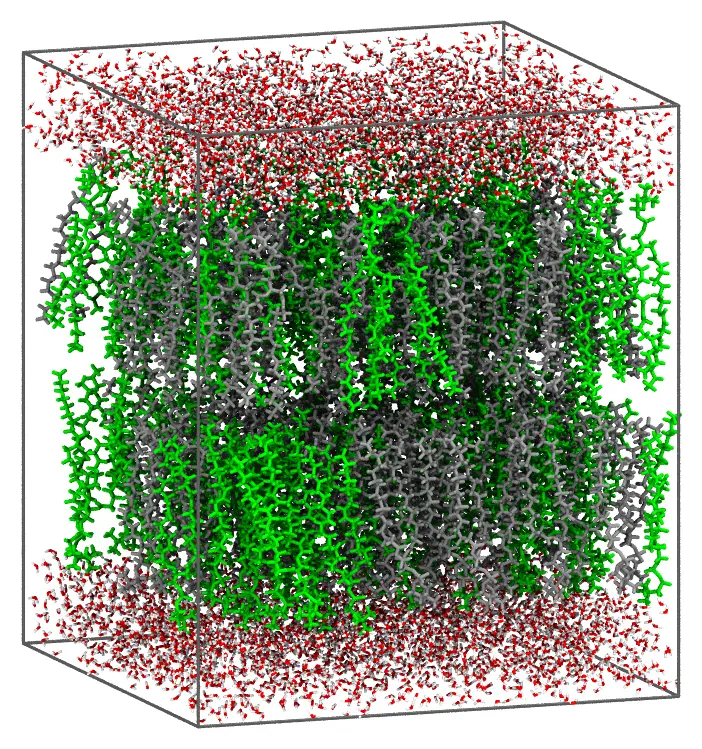
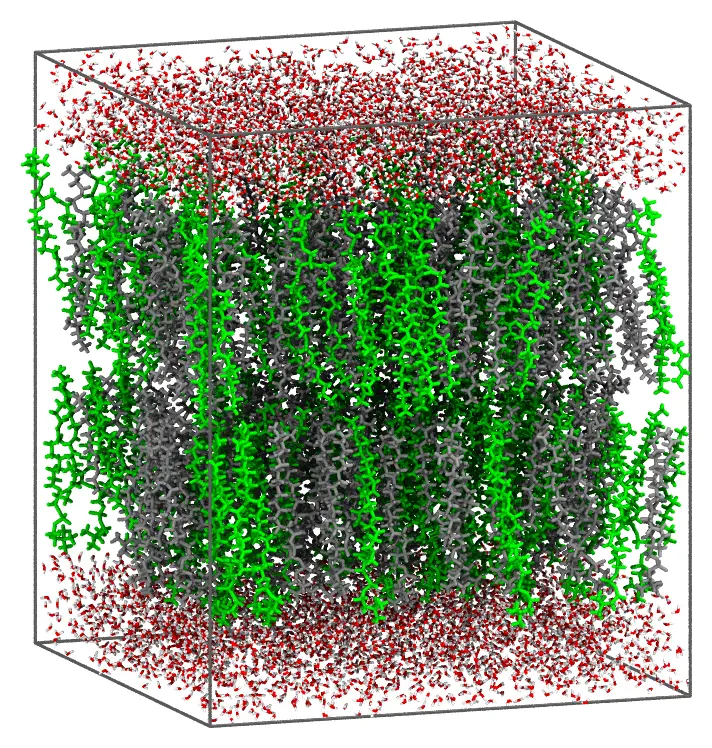
MembraneProtein recipe: a membrane protein in a bilayer, with water and ions
The protein, oriented as in the OPM database (membrane normal along z, middle of the
bilayer at z = 0), is kept fixed; the lipids (those of `Membrane`, by name or file, placed
by the same rule) fill each leaflet, without the cross-section of the protein in it; the
water and the ions fill the slabs beyond the heads, without the volume of the protein
(by Monte Carlo): ions at the ionic concentration, counterions for the charge of the
protein, water to the density of the solution, as in `SolutionBoxUWI`. The cell extends a
lateral margin around the protein, and a solvent margin in z.

Example and tests with the integrin αIIbβ3 transmembrane domains (OPM 2K9J, without the
DUM atoms): in POPC/POPS 4:1 with 0.15 M NaCl, 134 lipids, 5,548 waters, packed in about
10 s. Docs page with the example, an image (dev/recipes/membrane.jl), and advice on the
NPT equilibration with restraints on the protein. The Membrane block writers are shared
(`_write_block`, `_push_structure_types!`). Short summaries in the docstrings of
`shape_descriptors` and `select_conformations`.

Claude-Session: https://claude.ai/code/session_01CXddAw4T6Ean6ekQ8DQaFR

diff --git a/docs/src/recipes/membrane_protein_system.md b/docs/src/recipes/membrane_protein_system.md
@@ -1,0 +1,77 @@
+```@meta
+CollapsedDocStrings = true
+```
+# Membrane protein system
+
+`MembraneProtein` inserts a membrane protein in a lipid bilayer of a given composition, and
+solvates it with water and ions, under orthorhombic periodic boundary conditions.
+
+```@docs
+MembraneProtein
+write_packmol_input(::MembraneProtein)
+packmol(::MembraneProtein)
+```
+
+## The protein
+
+The protein must be oriented for the membrane, as the structures of the
+[OPM database](https://opm.phar.umich.edu) are: the membrane normal along `z`, and the
+middle of the bilayer at `z = 0`. Download the structure from OPM, and remove its `DUM`
+atoms, which mark the boundaries of the membrane (for example, with PDBTools:
+`write_pdb("protein.pdb", read_pdb("1abc.pdb", "not resname DUM"))`). The protein is kept
+fixed at the coordinates of the file. The example below is the transmembrane and
+cytoplasmic domains of the integrin αIIbβ3 (PDB 2K9J, as oriented by OPM), with two
+helices crossing the membrane.
+
+## An example
+
+The integrin in a POPC/POPS 4:1 bilayer, with 0.15 M NaCl:
+
+```@example membrane_protein
+using Packmol
+system = MembraneProtein(
+    protein = joinpath(Packmol.RecipesDirectory, "test", "data", "integrin_tm.pdb"),
+    lipids = ["POPC", "POPS"],
+    lipid_molar_ratio = [4, 1],
+)
+```
+
+```@example membrane_protein
+write_packmol_input(system; input = "membrane_protein.inp", output = "membrane_protein.pdb")
+```
+
+```julia
+packmol(system; output = "membrane_protein.pdb")
+```
+
+It packs in about 10 seconds with 14 threads. A slab through the protein (the protein in
+red):
+
+![The integrin in a POPC/POPS bilayer](images/membrane_protein.webp)
+
+## How the system is built
+
+- The cell extends `margin` (15 Å) beyond the protein in `x` and `y`, and `solvent_margin`
+  (15 Å) beyond the heads of the lipids and beyond the protein in `z`.
+- The lipids are placed as in the [Membrane system](@ref): the ends of their chains within
+  6 Å of the middle of the bilayer, and their heads beyond 6 Å + 0.85 L. The number of
+  lipids of each leaflet fills the area of the cell without the cross-section of the protein
+  in the leaflet, at the area per lipid (that of the actual membrane, for the built-in
+  lipids).
+- The water and the ions fill the slabs beyond the heads. Their volume without the protein
+  is estimated by Monte Carlo (as [`free_volume`](@ref)): the ions at the ionic
+  concentration, with counterions to neutralize the charge of the protein (computed from its
+  residues, or given as `protein_charge`), and the water to the density of the salt
+  solution, as in the [Solute-Water-Ions system](@ref).
+
+## Equilibrating the system
+
+The packed system has no overlaps, but it is not equilibrated. The built-in lipids are
+extended conformations, so the bilayer is thicker than a relaxed one, and than the
+hydrophobic belt of the protein, and the lipids are not yet in contact with the protein as
+in an equilibrated membrane. Minimize the energy of the system, and equilibrate it with
+molecular dynamics at constant pressure (NPT, with semi-isotropic pressure coupling, so
+that the area and the thickness of the membrane relax independently), with position
+restraints on the atoms of the protein (on its heavy atoms, or on its backbone), released
+gradually, until the area per lipid and the thickness of the membrane are stable. Only then
+start the production simulation.

diff --git a/CLAUDE.md b/CLAUDE.md
@@ -74,6 +74,7 @@ src/
     SolutionBoxUSC.jl                 # Solute + Solvent + Cossolvent
     SolutionBoxUWI.jl                 # Solute + Water + Ions
     Membrane.jl                       # Lipid bilayer/monolayer
+    MembraneProtein.jl                # Membrane protein in a bilayer, with water and ions
     DensityTable.jl
     concentration_units.jl
 ext/
@@ -377,6 +378,12 @@ We have full control over the SPGBox.jl package, if some tuning is required. But
       (L: head to midpoint of the chain ends; `flexibility` 0.15), no constraint on the whole molecule
       (it made every lipid tilt), the solvent from 2 Å beyond the heads. Size: `total_lipids` xor
       `total_area`. Examples (images by `dev/recipes/membrane.jl`) in `docs/src/recipes/membrane_system.md`.
+- [x] `MembraneProtein` - a membrane protein (pre-oriented as in OPM: normal along z, bilayer middle at
+      z = 0; kept fixed) in a bilayer of the lipids of `Membrane` (same placement rule; lipids per
+      leaflet from the cell area minus the protein cross-section), solvated by water and ions (free
+      volume of the slabs by Monte Carlo, salt concentration and counterions as `SolutionBoxUWI`);
+      the cell is a lateral `margin` around the protein. Example protein: `src/Recipes/test/data/
+      integrin_tm.pdb` (OPM 2K9J without DUM atoms).
 - [x] `packmol(recipe; ...)` - build and pack a recipe directly, without an explicit input file
 - [x] Concentration unit conversions (Molarity, Molality, MoleFraction, etc.)
 - [x] Ported from MolSimToolkit.jl's Packmol Input Creator: `convert_concentration`,

diff --git a/docs/src/recipes/index.md b/docs/src/recipes/index.md
@@ -20,6 +20,9 @@ solvation setups:
 - [Membrane system](@ref): a lipid bilayer or monolayer of one or more
   lipids, solvated above (and, for a bilayer, also below) the membrane. Seven
   common phospholipids are built in: only the composition and the size are needed.
+- [Membrane protein system](@ref): a membrane protein (oriented as in the OPM
+  database) in a lipid bilayer of a given composition, solvated by water and
+  ions.
 
 Vesicles and nanotubes are planned as future recipes; a rhombic
 dodecahedron or truncated octahedron box is already available today, for
@@ -44,6 +47,6 @@ used to convert between them.
 julia> using Packmol
 ```
 
-`SolutionBoxUS`, `SolutionBoxUSC`, `SolutionBoxUWI`, `Membrane`,
+`SolutionBoxUS`, `SolutionBoxUSC`, `SolutionBoxUWI`, `Membrane`, `MembraneProtein`,
 `write_packmol_input`, `convert_concentration`, `convert_density_table!` and
 `get_density_table` are exported directly from `Packmol`.

diff --git a/docs/src/tutorials/ai_agent.md b/docs/src/tutorials/ai_agent.md
@@ -192,4 +192,9 @@ input files (`write_packmol_input(recipe)`):
 - Large systems (millions of atoms) take minutes to hours and several GB of memory: check
   the initial placement first.
 - The packed system has no overlaps, but it is not equilibrated: minimize its energy and
-  equilibrate it before a production simulation.
+  equilibrate it at constant pressure (NPT; semi-isotropic for membranes) before a
+  production simulation, with position restraints on solutes such as proteins, released
+  gradually.
+- `MembraneProtein` inserts a membrane protein, oriented as in the OPM database (normal
+  along z, middle of the bilayer at z = 0, without its `DUM` atoms), in a bilayer of a given
+  composition, with water and ions.

diff --git a/docs/src/recipes/membrane_system.md b/docs/src/recipes/membrane_system.md
@@ -94,7 +94,8 @@ A monolayer is packed in the same way, from the bottom of the box.
 
 The built-in lipids are extended conformations, which pack well, but make a bilayer
 thicker than a relaxed one (and its area per lipid is that of the actual membrane): the
-equilibration of a molecular dynamics simulation brings it to its thickness.
+equilibration of a molecular dynamics simulation at constant pressure (NPT, with
+semi-isotropic pressure coupling) brings it to its thickness and area.
 
 ## Other lipids and solvents
 
